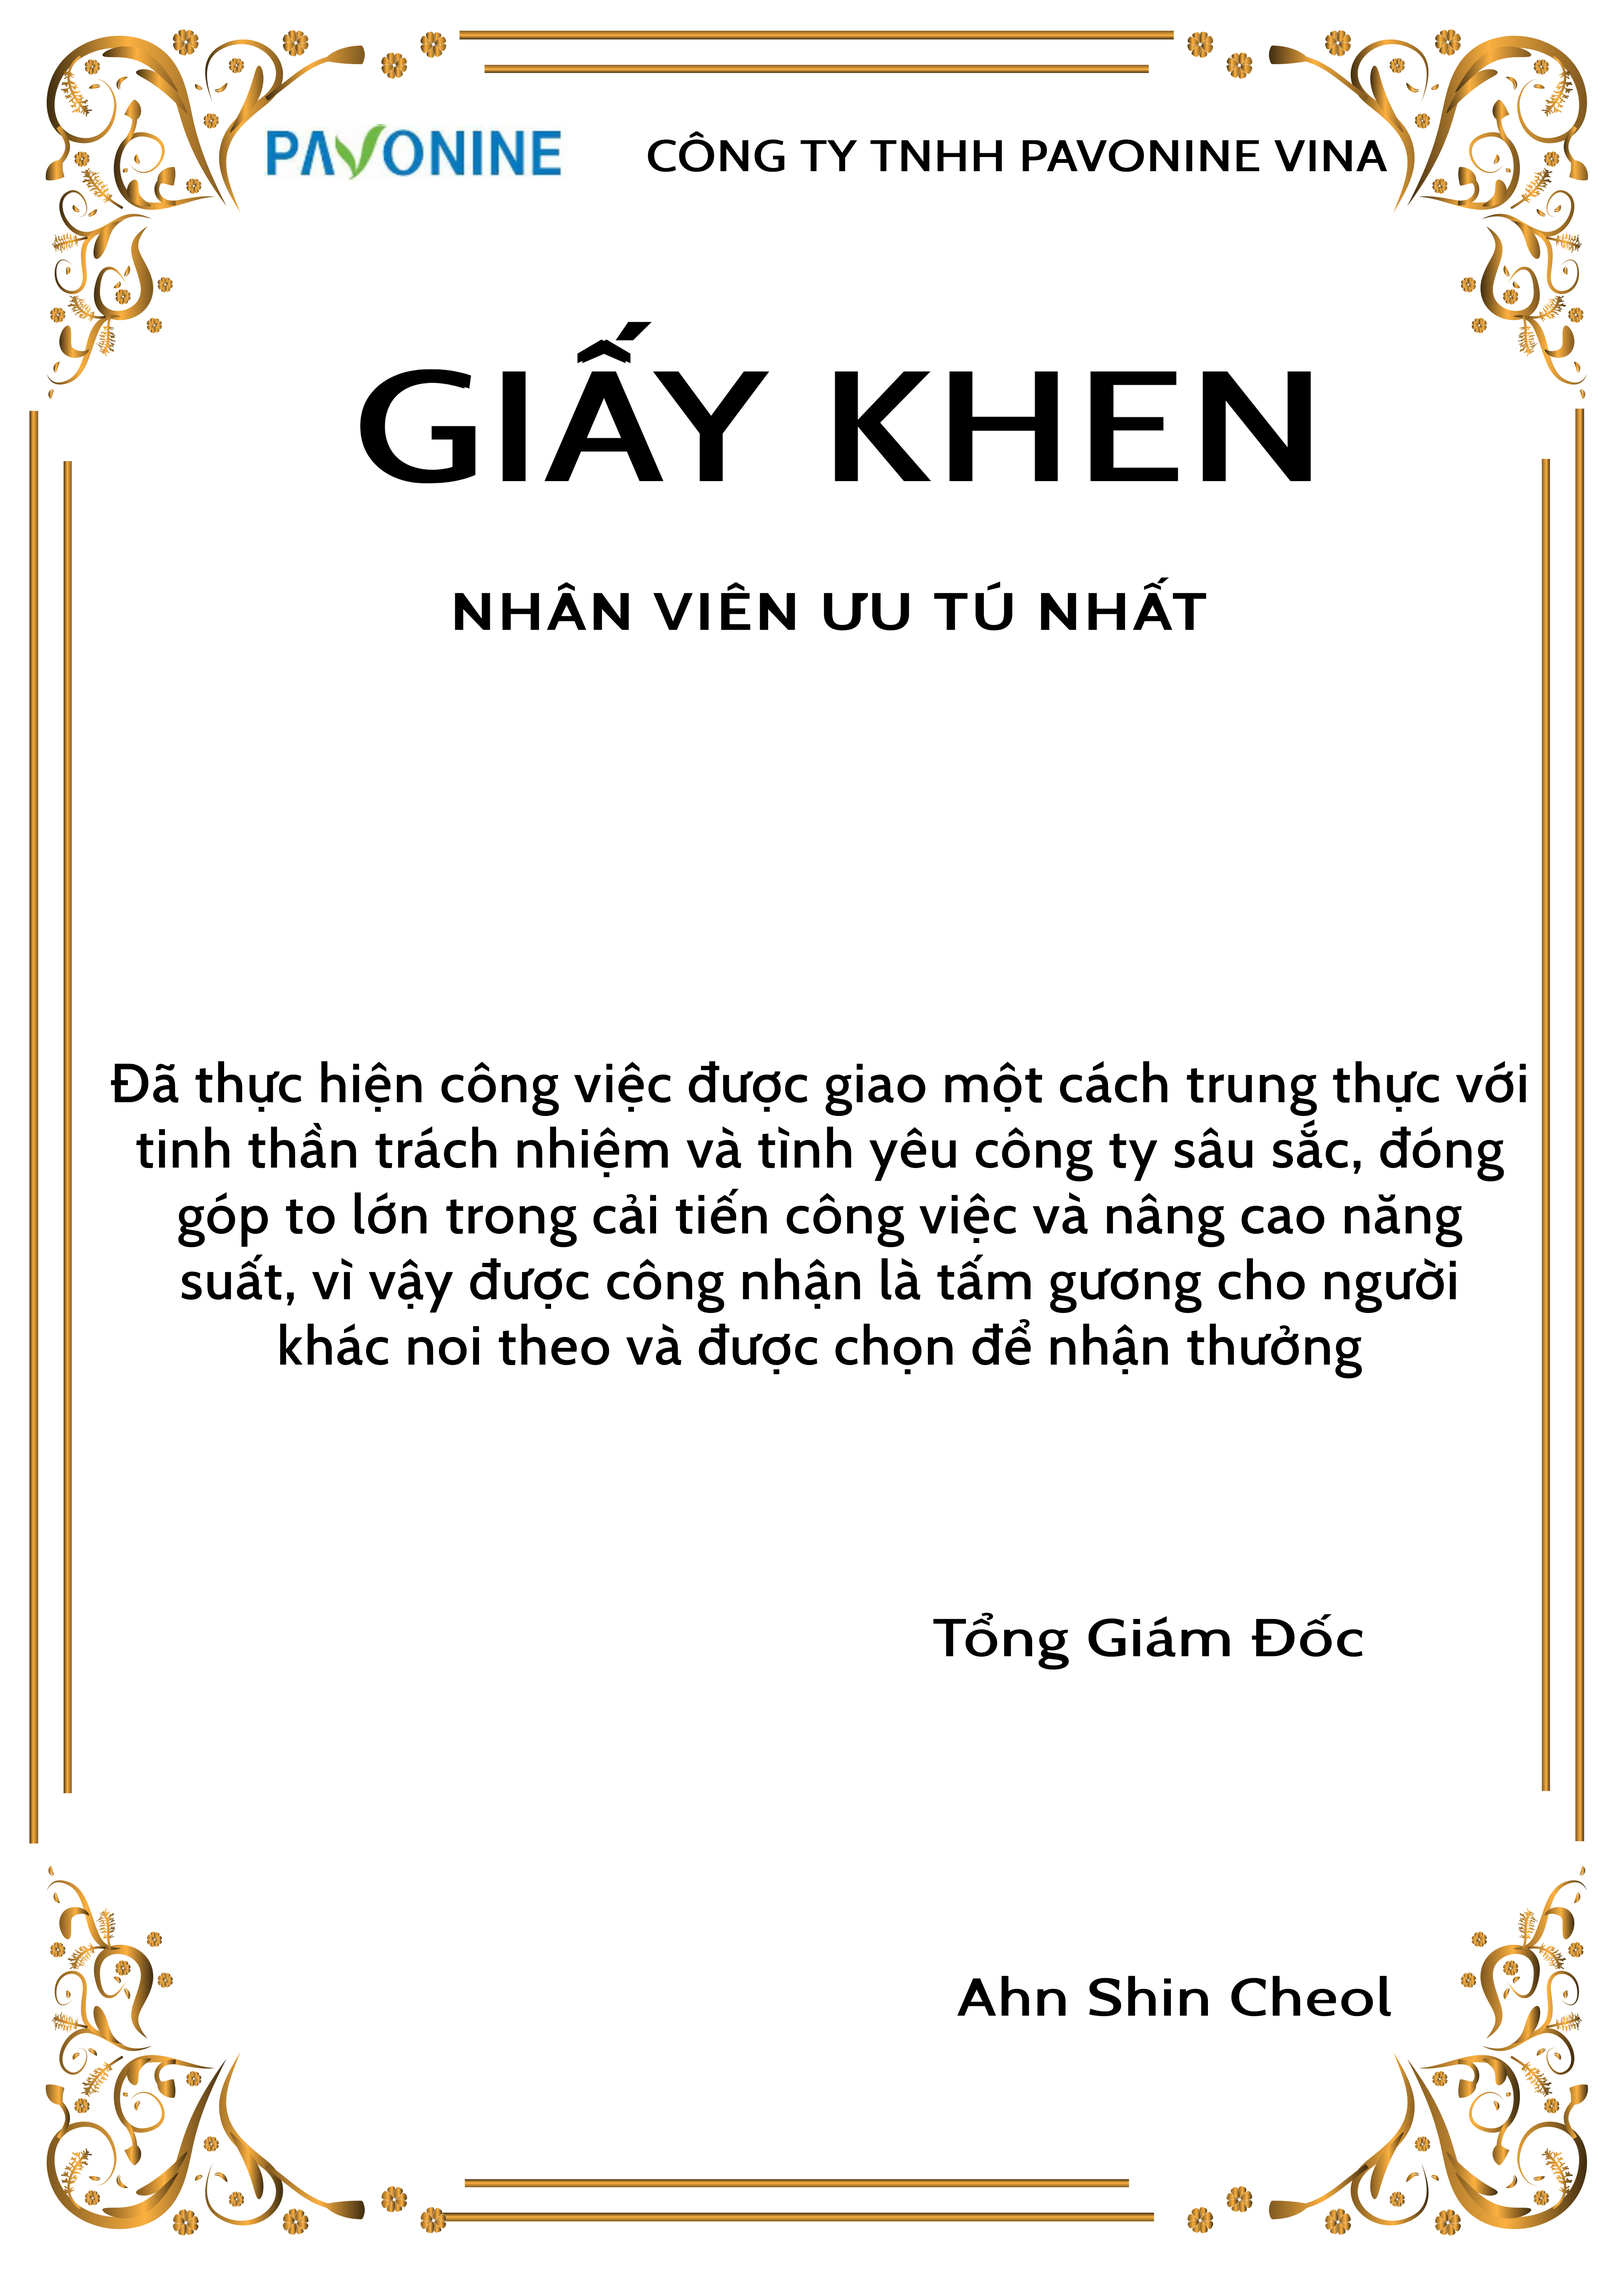
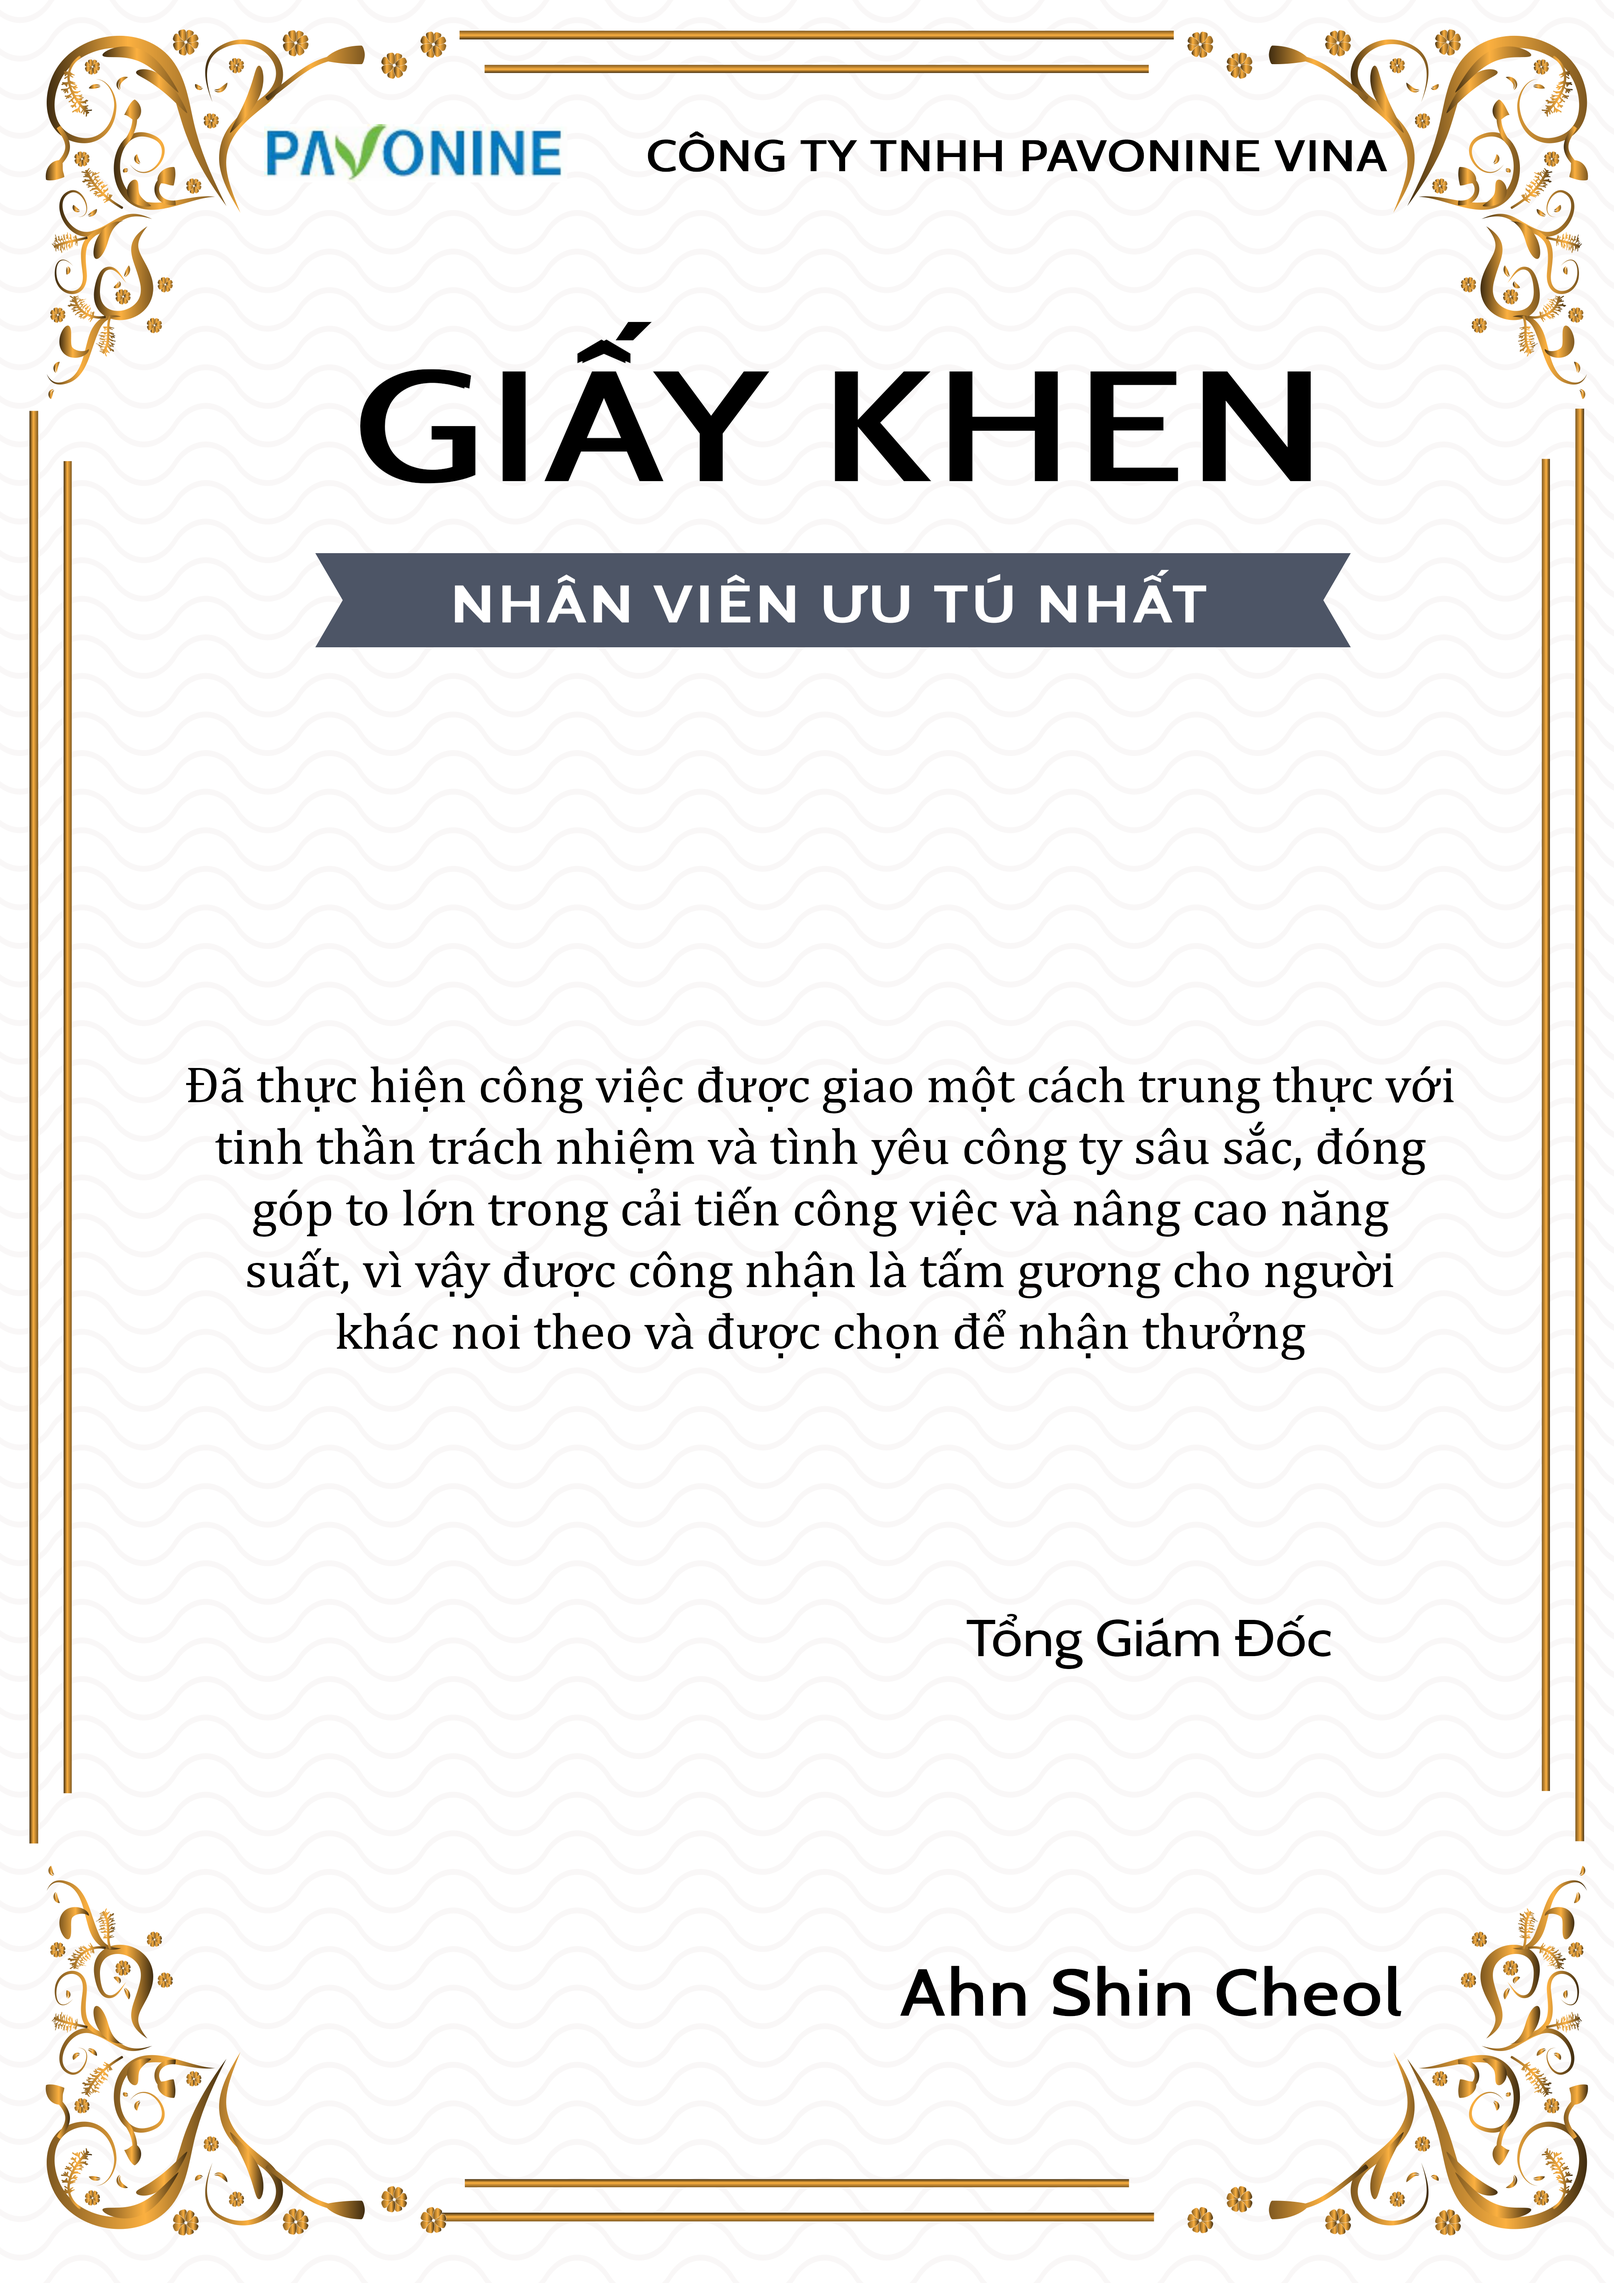
update

diff --git a/src/CertificateGenerator1.jsx b/src/CertificateGenerator1.jsx
@@ -62,7 +62,7 @@ export default function CertificateGenerator1() {
     ctx.fillStyle = "#000";
     ctx.textAlign = "center";
     ctx.textBaseline = "middle";
-    ctx.fillText(topText, baseWidth / 2, 1040);
+    ctx.fillText(topText, baseWidth / 2, 1060);
 
     // Tên người được khen (dòng chính) - tự động giảm font nếu quá dài, viết hoa chữ cái đầu mỗi từ
     const displayName = toTitleCase(text);
@@ -89,15 +89,15 @@ export default function CertificateGenerator1() {
 
     // Dòng phụ bên dưới tên (hoặc bộ phận)
     const offsetSub = 470; // nếu có bộ phận thì đẩy xuống thêm
-    ctx.font = `bold ${80 * dpr}px 'Cabin', 'serif'`;
+    ctx.font = `bold ${65 * dpr}px 'Cabin', 'serif'`;
     ctx.fillStyle = "#000";
     // Tự động lấy quý hiện tại và năm hiện tại
     const nowSub2 = new Date();
     const month2 = nowSub2.getMonth(); // 0-11
     const quarter2 = Math.floor(month2 / 3) + 1;
     const year2 = nowSub2.getFullYear();
-    const subText = `nhân viên ưu tú nhất quý ${quarter2} năm ${year2}.`;
-    ctx.fillText(subText, baseWidth / 2, 1700 + offsetSub);
+    const subText = `nhân viên ưu tú nhất quý ${quarter2} năm ${year2}.`.toUpperCase();
+    ctx.fillText(subText, baseWidth / 2, 1680 + offsetSub);
 
     // Ngày tháng năm bên trái dưới
     const dateFontSize = 50;   // chỉnh font size tại đây
